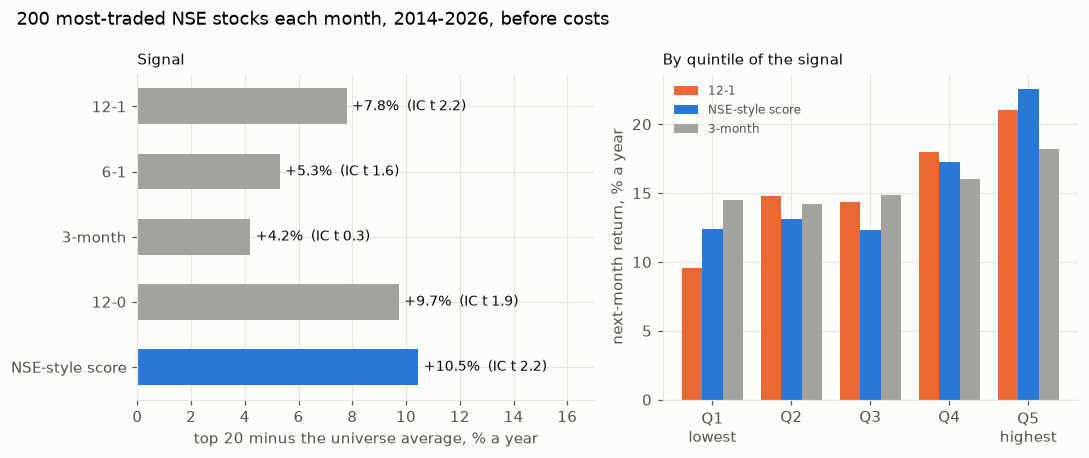
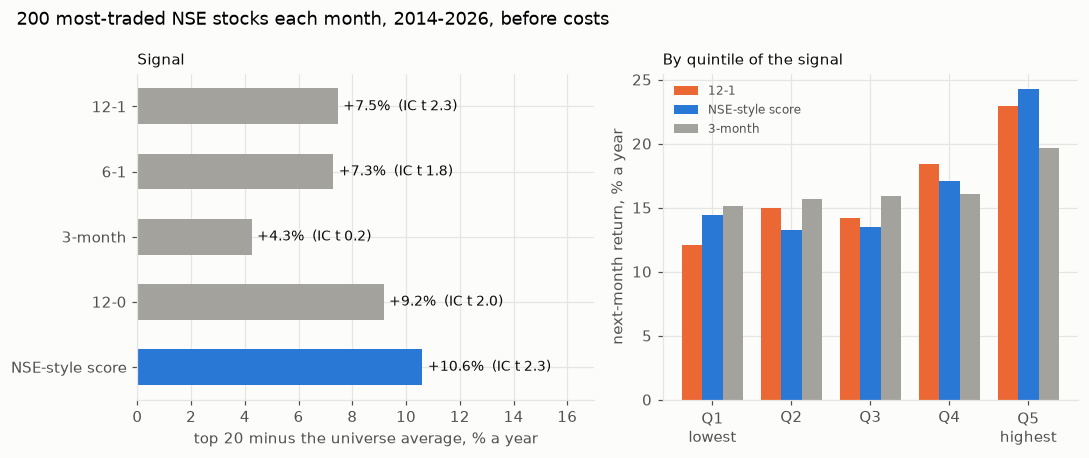
fix: use the exact daily point-in-time universe (price and history rules included) for the signal study

diff --git a/src/mo/signals.py b/src/mo/signals.py
@@ -1,16 +1,18 @@
 """Which momentum signal ranks next month's returns best, on a point-in-time universe.
 
-At each month-end t the universe is the `n` most-traded stocks by median daily turnover over the
-126 trading days to t (pt.universe.members_at, known at t). Every signal uses prices up to t only;
-the outcome is each stock's return from t to the next month-end. A stock with no price at the next
-month-end (delisted or suspended) counts as 0, as if sold at its last price.
+At each month-end t the universe is the reference model's point-in-time list on that day
+(mo.universe.members_on: the `n` most-traded EQ stocks priced at ₹50 or more with a year of
+history), or, given a turnover table instead, the `n` most-traded stocks over the 126 trading
+days to t (members_at). Every signal uses prices up to t only; the outcome is each stock's return
+from t to the next month-end. A stock with no price at the next month-end (delisted or
+suspended) counts as 0, as if sold at its last price.
 """
 
 import numpy as np
 import pandas as pd
 
 from mo.momentum import TRADING_DAYS, momentum, month_end_prices
-from mo.universe import members_at
+from mo.universe import members_at, members_on
 
 SIGNALS = ("12-1", "6-1", "3-0", "12-0", "NSE-style volatility-adjusted")
 
@@ -45,7 +47,11 @@ def scores_at(monthly, vol, t, members) -> dict[str, pd.Series]:
 
 
 def signal_panel(
-    prices: pd.DataFrame, turnover: pd.DataFrame, n: int = 200, start: str = "2014-01-01"
+    prices: pd.DataFrame,
+    turnover: pd.DataFrame | None = None,
+    n: int = 200,
+    start: str = "2014-01-01",
+    universe: pd.DataFrame | None = None,
 ) -> pd.DataFrame:
     """One row per (month-end t, stock in that month's universe): every signal at t and the next
     month's return."""
@@ -55,11 +61,12 @@ def signal_panel(
     rows = []
     dates = monthly.index[(monthly.index >= start)][:-1]  # the last month has no next month
     for t in dates:
-        members = [
-            s
-            for s in members_at(turnover, t + pd.Timedelta(days=1), n)
-            if pd.notna(monthly.at[t, s])
-        ]
+        pool = (
+            members_on(universe, t, n)
+            if universe is not None
+            else members_at(turnover, t + pd.Timedelta(days=1), n)
+        )
+        members = [s for s in pool if s in monthly.columns and pd.notna(monthly.at[t, s])]
         sc = pd.DataFrame(scores_at(monthly, vol, t, members))
         sc["next"] = nxt.loc[t, members]
         sc["date"] = t

diff --git a/src/mo/universe.py b/src/mo/universe.py
@@ -57,3 +57,23 @@ def members_at(turnover: pd.DataFrame, day: pd.Timestamp, n: int, window: int = 
     past = turnover.loc[turnover.index < day].iloc[-window:]  # known before the day starts
     med = past.median().dropna()
     return list(med.nlargest(n).index)
+
+
+def load_universe(lake_dir: str | Path | None = None) -> pd.DataFrame:
+    """The reference model's point-in-time universe (date, symbol, rank, med_turnover_cr, close): each day the
+    EQ stocks priced at ₹50 or more with a year of history, ranked by median turnover over the last
+    126 trading days, top 200 kept. Built from NSE's raw bhavcopy, so delisted stocks are in it."""
+    lake_dir = lake_dir or os.environ.get("MO_LAKE_DIR")
+    if not lake_dir:
+        raise FileNotFoundError("set MO_LAKE_DIR to a bhavcopy lake folder with universe.parquet")
+    u = pd.read_parquet(Path(lake_dir) / "universe.parquet")
+    u["date"] = pd.to_datetime(u["date"])
+    return u
+
+
+def members_on(universe: pd.DataFrame, day: pd.Timestamp, n: int = 200) -> list[str]:
+    """The universe's top `n` on the last universe date on or before `day`."""
+    dates = universe["date"]
+    last = dates[dates <= day].max()
+    u = universe[(dates == last) & (universe["rank"] <= n)]
+    return list(u.sort_values("rank")["symbol"])

diff --git a/src/mo/reports.py b/src/mo/reports.py
@@ -28,16 +28,17 @@ def last_years(df: pd.DataFrame, years: int) -> pd.DataFrame:
 
 
 def report_signal(out_dir: Path) -> dict:
-    """Which momentum signal ranked next month's returns best, 2014-2026, on a point-in-time
-    universe (the 200 most-traded stocks each month, delisted ones included; needs MO_LAKE_DIR),
+    """Which momentum signal ranked next month's returns best, 2014-2026, on the reference model's
+    point-in-time universe (the 200 most-traded stocks each day at ₹50 or more with a year of
+    history, delisted ones included; needs MO_LAKE_DIR),
     with today's NIFTY 200 from Yahoo alongside."""
     from mo.data import SYMBOLS
     from mo.signals import SIGNALS, evaluate, signal_panel
-    from mo.universe import load_lake
+    from mo.universe import load_lake, load_universe
 
     res = {}
-    lake_px, lake_to = load_lake()
-    panel = signal_panel(lake_px, lake_to)
+    lake_px, _ = load_lake()
+    panel = signal_panel(lake_px, universe=load_universe())
     res["point-in-time"] = (
         f"{panel['date'].nunique()} month-ends {panel['date'].min():%b %Y}-"
         f"{panel['date'].max():%b %Y}, {len(panel) / panel['date'].nunique():.0f} stocks a month"

diff --git a/README.md b/README.md
@@ -25,31 +25,32 @@ data by GitHub Actions.
 
 ## Findings
 
-### 1. Twelve-month momentum works; a volatility-adjusted score and the latest month help, three months doesn't
+### 1. Twelve-month momentum works best volatility-adjusted; three months doesn't
 
 <a href="docs/img/signal_compare.png"><picture><source media="(prefers-reduced-motion: reduce)" srcset="docs/img/signal_compare.png"><img src="docs/img/signal_compare.gif" alt="Top 20 minus universe return by signal, and next-month return by quintile for three signals" width="720"></picture></a>
 
 <a href="docs/img/signal_edge.png"><picture><source media="(prefers-reduced-motion: reduce)" srcset="docs/img/signal_edge.png"><img src="docs/img/signal_edge.gif" alt="Cumulative edge of each signal's top 20 over an equal-weight universe, 2014-2026" width="720"></picture></a>
 
-Each month-end from January 2014 to October 2026 (154 months) the universe is the 200 most-traded NSE
-stocks by median turnover over the previous 126 days, delisted ones included (a local NSE bhavcopy
-archive; only these results are committed). Every signal uses prices to that month-end; the outcome is
-the next month's return, before costs, with a stock that stops trading counted as sold at its last
-price. 12-1 is the return from 12 months ago to 1 month ago; 12-0 includes the latest month; the
-NSE-style score averages 6- and 12-month returns each divided by a year's volatility (an approximation
-of the Nifty200 Momentum 30 method, without its weighting and buffers).
+Each month-end from January 2014 to October 2026 (154 months) the universe is the day's 200 most-traded
+NSE stocks priced at ₹50 or more with a year of history, by median turnover over 126 days, delisted
+ones included (built from NSE's daily bhavcopy in a local archive; only these results are committed).
+Every signal uses prices to that month-end; the outcome is the next month's return, before costs and
+without dividends, with a stock that stops trading counted as sold at its last price. 12-1 is the return
+from 12 months ago to 1 month ago; 12-0 includes the latest month; the NSE-style score averages 6- and
+12-month returns each divided by a year's volatility (an approximation of the Nifty200 Momentum 30
+method, without its weighting and buffers).
 
-- **The top 20 beat the average stock with every 6-12 month signal.** By +10.5% a year with the
-  NSE-style score, +9.7% with 12-0, +7.8% with 12-1 and +5.3% with 6-1. The rank correlation with next
-  month's return was small but steady (0.032 for the score and 0.033 for 12-1, t 2.2 each).
-- **Three months was noise.** Rank correlation 0.004 (t 0.3), +0.0% a year over 2014–19, and its top
-  20 changed 54% a month against 28–32% for the 12-month signals.
-- **Skipping the latest month didn't help here.** 12-0 kept +9.7% a year against 12-1's +7.8%, with
-  the same rank correlation; the textbook one-month reversal didn't show in these stocks.
-- **It held in both halves, stronger lately.** The score's edge was +9.1% a year in 2014–19 and +11.7%
-  in 2020–26.
+- **The top 20 beat the average stock with every 6-12 month signal.** By +10.6% a year with the
+  NSE-style score, +9.2% with 12-0, +7.5% with 12-1 and +7.3% with 6-1. The rank correlation with next
+  month's return was small but steady: 0.031 for the score and 0.033 for 12-1 (t 2.3 each).
+- **Three months was noise.** Rank correlation 0.002 (t 0.2), −0.2% a year over 2014–19, and its top
+  20 changed 54% a month against 29–34% for the 12-month signals.
+- **Skipping the latest month didn't help here.** 12-0 kept +9.2% a year against 12-1's +7.5%, with
+  about the same rank correlation; the textbook one-month reversal didn't show in these stocks.
+- **Stronger lately.** The score's edge was +7.8% a year in 2014–19 and +13.1% in 2020–26; 12-1's was
+  +4.7% and +9.9%.
 - **Today's list flatters everything.** Applying today's NIFTY 200 to the same months, the average stock
-  made 25.5% a year against 14.2% for the stocks that were actually most traded at the time, and 12-1's
+  made 25.5% a year against 15.4% for the stocks that were actually most traded at the time, and 12-1's
   top-20 edge rose to +13.2% (finding 2 looks at this).
 
 ## Quick start
@@ -68,8 +69,8 @@ NIFTY 200 file. Event studies on delisted stocks can read a local NSE bhavcopy a
 
 ## Design
 
-- `src/mo/universe.py`: the point-in-time universe (most-traded stocks each month) from a local NSE
-  bhavcopy archive set by `MO_LAKE_DIR`; findings that need it say so, and only their results are
+- `src/mo/universe.py`: the point-in-time universe (each day's 200 most-traded stocks at ₹50 or more
+  with a year of history) from a local NSE bhavcopy archive set by `MO_LAKE_DIR`; findings that need it say so, and only their results are
   committed.
 - `src/mo/signals.py`: the momentum signals and their monthly evaluation (rank IC, top 20 against the
   universe, quintiles).
